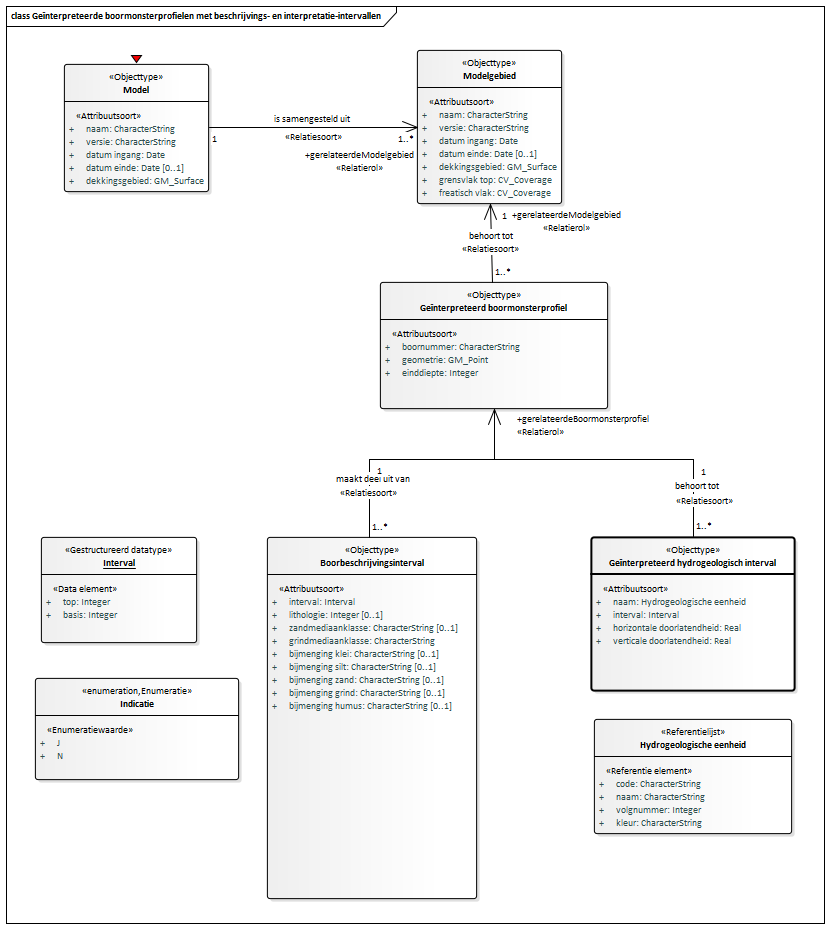
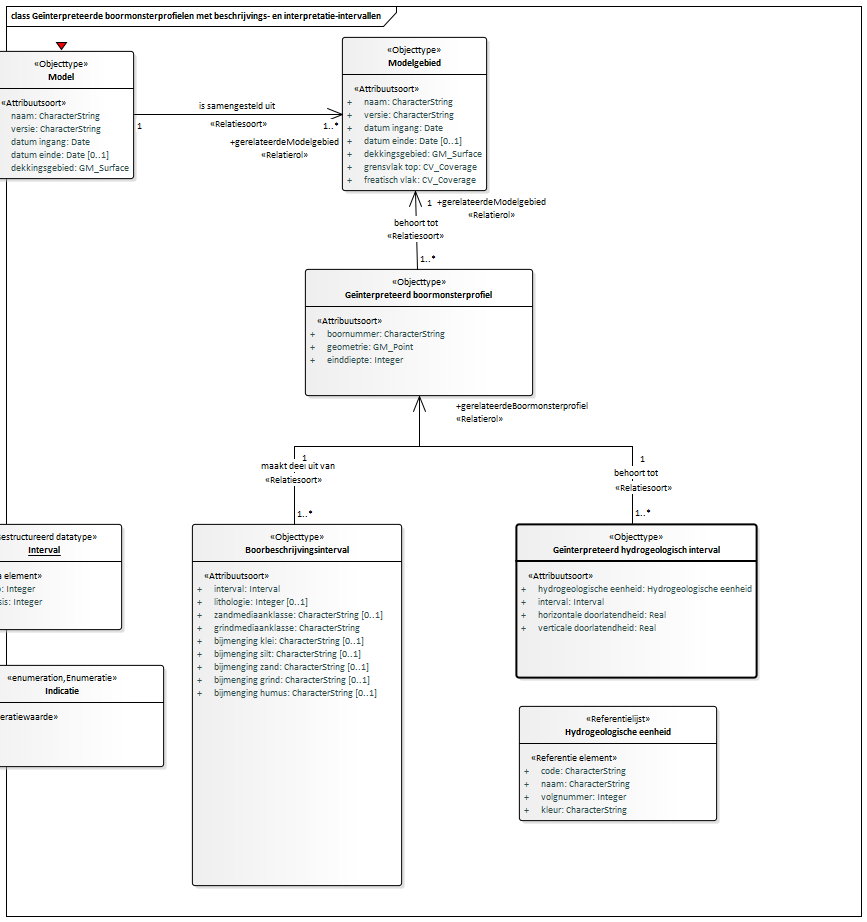
REGIS-BROREGIS-0.4-1-20180925-20180924-214224

diff --git a/data/HGM-cat.html b/data/HGM-cat.html
@@ -1,10 +1,10 @@
 <h2>Catalogus</h2>
 <p class="note" title="Over deze catalogus">
    Deze catalogus is automatisch samengesteld op basis van het UML model 
-   "BRO: REGIS" door Imvertor 1.47.2 op September 24, 2018 at 19:38:07.
+   "BRO: REGIS" door Imvertor 1.47.2 op September 24, 2018 at 19:42:22.
    <br>
    Wanneer je technische fouten of onvolkomenheden aantreft, geef dit dan door aan <i></i> en geef de code 
-   <i>"REGIS-BROREGIS-0.4-1-20180925-20180924-213809"</i> door. 
+   <i>"REGIS-BROREGIS-0.4-1-20180925-20180924-214224"</i> door. 
    
 </p>
 <section id="">
@@ -727,10 +727,13 @@
             </tr>
             <tr>
                <td>
-                  <a class="link" href="#detail_attribute_BROREGIS_GeNterpreteerdHydrogeologischInterval_naam">naam</a>
+                  <a class="link" href="#detail_attribute_BROREGIS_GeNterpreteerdHydrogeologischInterval_hydrogeologischeEenheid">hydrogeologische eenheid</a>
                   
                </td>
-               <td></td>
+               <td>Een hydrologische eenheid is een gesteente lichaam dat op grond van petrografie, textuur
+                  of structuur binnen vastgestelde bandbreedten uniforme hydrogeologische eigenschappen
+                  vertoont en door laaggrenzen, faciesgrenzen, erosieranden of breuken wordt begrensd.
+               </td>
                <td>
                   <a class="link" href="#global_class_BROREGIS_HydrogeologischeEenheid">Hydrogeologische eenheid</a>
                   
@@ -3058,8 +3061,8 @@
    </section>
    <a class="anchor" name="detail_class_BROREGIS_GeNterpreteerdHydrogeologischInterval"></a><section id="detail_class_BROREGIS_GeNterpreteerdHydrogeologischInterval">
       <h5>Objecttype Geïnterpreteerd hydrogeologisch interval</h5>
-      <a class="anchor" name="detail_attribute_BROREGIS_GeNterpreteerdHydrogeologischInterval_naam"></a><section id="detail_attribute_BROREGIS_GeNterpreteerdHydrogeologischInterval_naam">
-         <h6>Attribuutsoort details <a href="#global_class_BROREGIS_GeNterpreteerdHydrogeologischInterval">Geïnterpreteerd hydrogeologisch interval</a> naam
+      <a class="anchor" name="detail_attribute_BROREGIS_GeNterpreteerdHydrogeologischInterval_hydrogeologischeEenheid"></a><section id="detail_attribute_BROREGIS_GeNterpreteerdHydrogeologischInterval_hydrogeologischeEenheid">
+         <h6>Attribuutsoort details <a href="#global_class_BROREGIS_GeNterpreteerdHydrogeologischInterval">Geïnterpreteerd hydrogeologisch interval</a> hydrogeologische eenheid
          </h6>
          
          <table>
@@ -3068,11 +3071,18 @@
             <tbody>
                <tr>
                   <th>Naam</th>
-                  <td>naam</td>
+                  <td>hydrogeologische eenheid</td>
                </tr>
                <tr>
                   <th>Herkomst</th>
                   <td>BRO</td>
+               </tr>
+               <tr>
+                  <th>Definitie</th>
+                  <td>Een hydrologische eenheid is een gesteente lichaam dat op grond van petrografie, textuur
+                     of structuur binnen vastgestelde bandbreedten uniforme hydrogeologische eigenschappen
+                     vertoont en door laaggrenzen, faciesgrenzen, erosieranden of breuken wordt begrensd.
+                  </td>
                </tr>
                <tr>
                   <th>Herkomst definitie</th>
